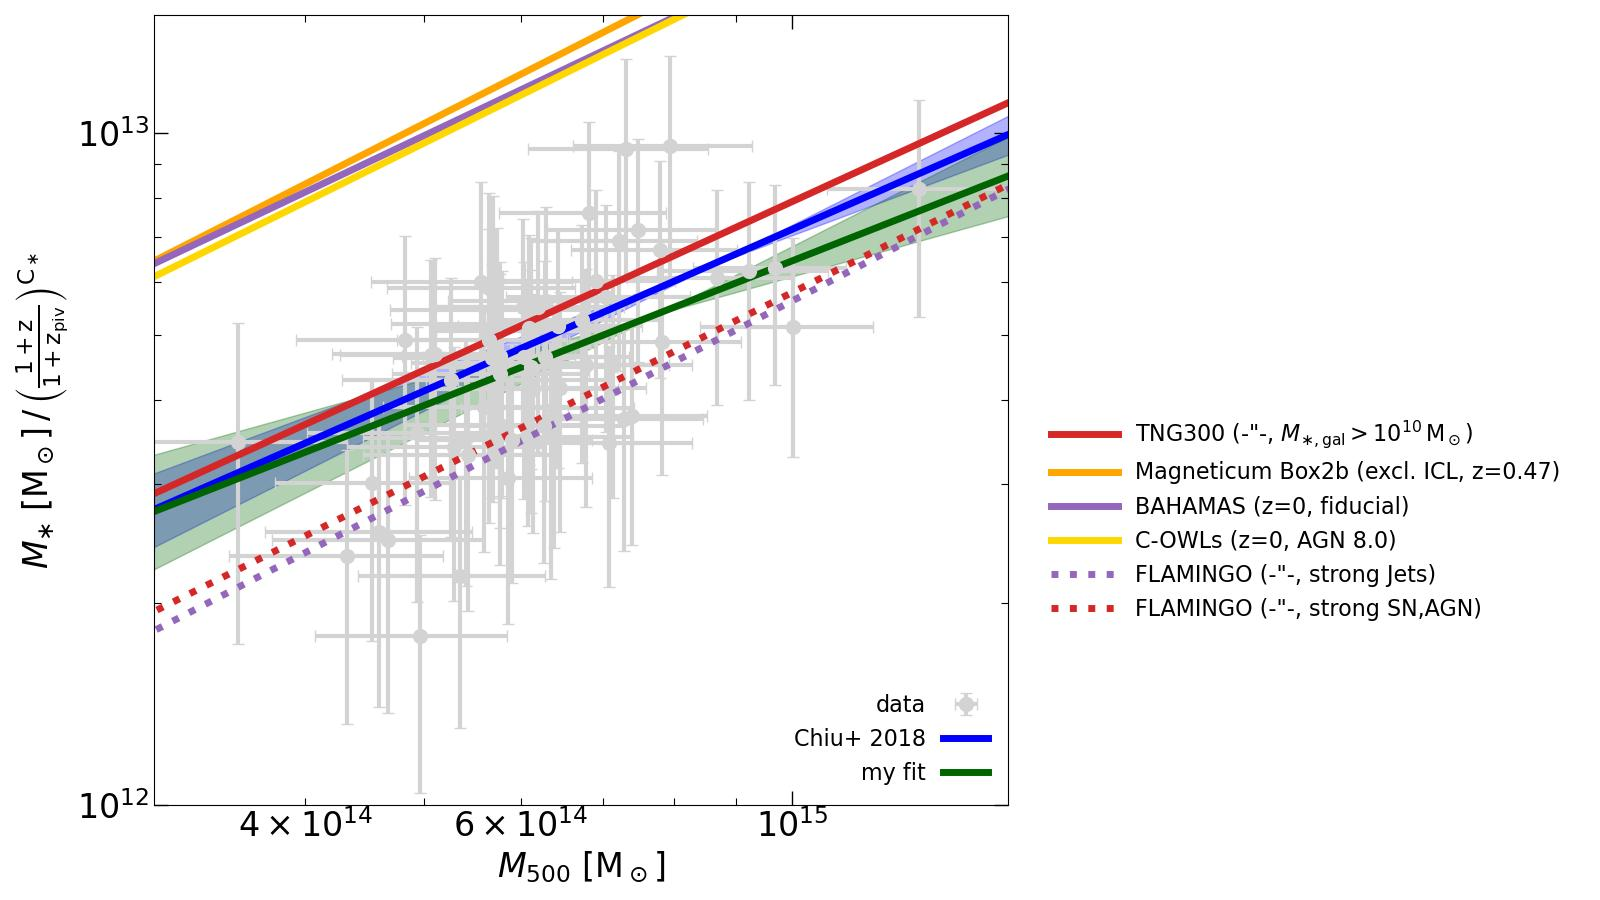
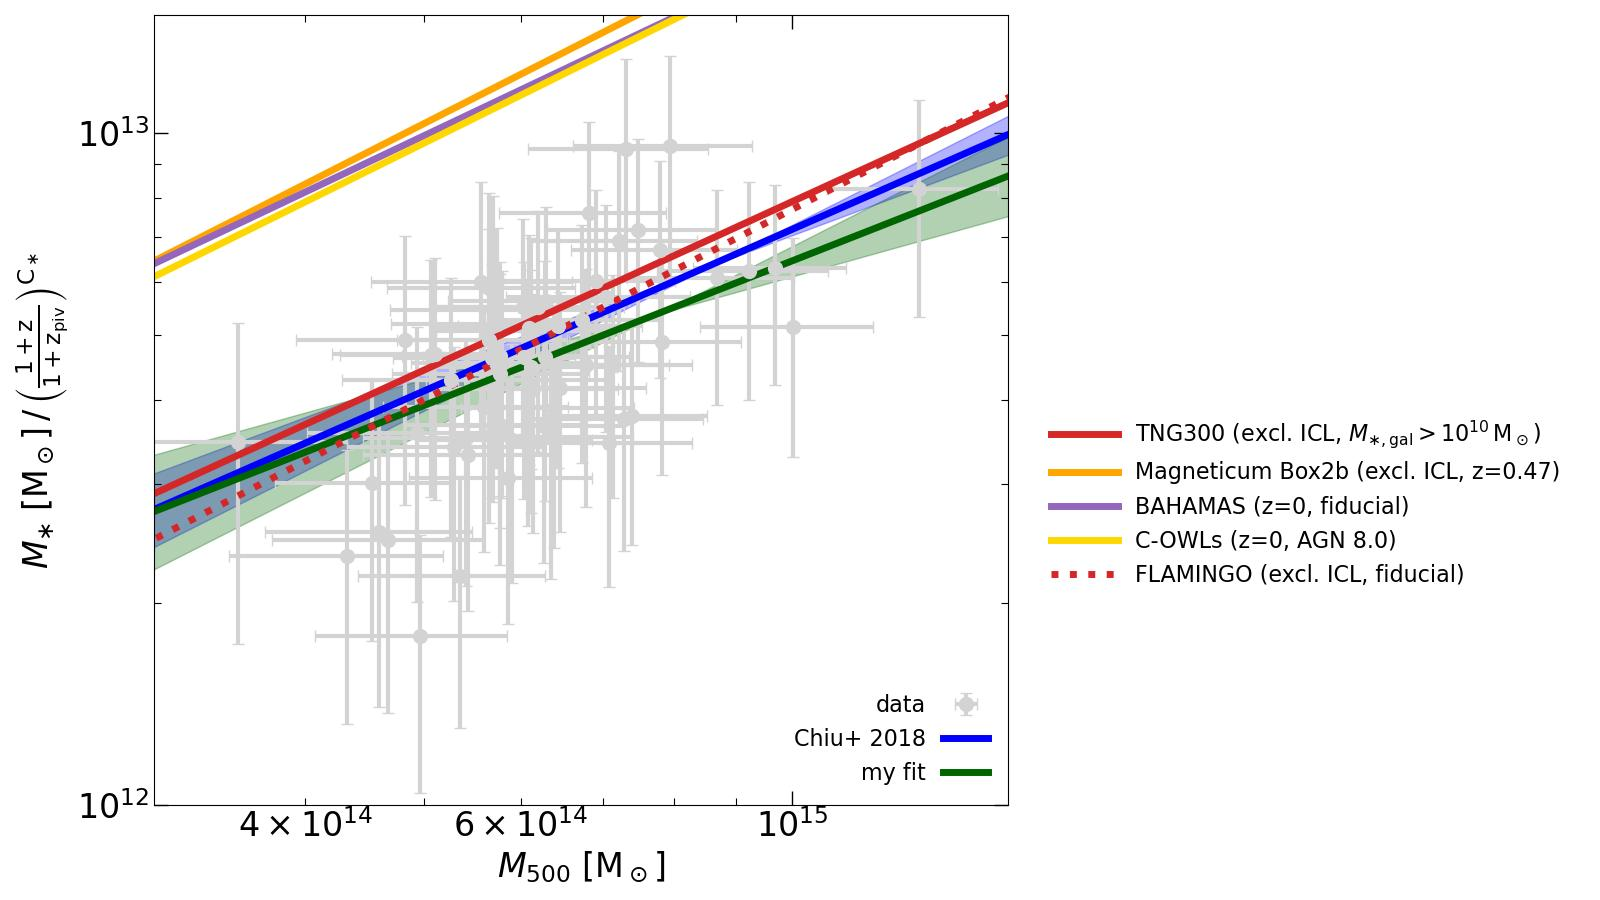
text updated and labels fixed

diff --git a/README.md b/README.md
@@ -52,16 +52,16 @@ $$ P(x|\mu,\sigma) = \cfrac{1}{x\sigma \sqrt{2\pi}}\exp\left(\cfrac{(\ln{x} - \m
 
 We need a lognormal distribution here because M<sub>* </sub> is normally distributed. However, since we're working with log(M<sub>* </sub>), this quantity is lognormally distributed. We can now compute the value of the lognormal distribution for every data point and add them up. The result is the Log-Likelihood for this set of parameters. The goal is to maximize this quantity by varying the parameters within the range in a smart way (so it does not take too long). The results from my fit to the new stellar masses can be found (not yet) [here](./files/chain_no_measurement_error_1/_1_stats.dat). The second block of values gives the results of the best fit for the parameters in order and the standard deviation. The latter is computed by evaluating different sets of parameters that have similar Log-Likelihoods. The results are:
 
-+ normalization: A<sub>* </sub> = (4.48 +- 0.24) * 10^12 M<sub>sun</sub>
-+ halo mass trend: B<sub>* </sub> = 0.716 +- 0.207
-+ redshift trend: C<sub>* </sub> = 0.184 +- 0.499
-+ scatter: D<sub>* </sub> = 0.055 +- 0.042
++ normalization: A<sub>* </sub> = $(4.48 \pm 0.24) \cdot 10^{12} \rm M_{\odot}$
++ halo mass trend: B<sub>* </sub> = 0.716 $\pm$ 0.207
++ redshift trend: C<sub>* </sub> = 0.184 $\pm$ 0.499
++ scatter: D<sub>* </sub> = 0.055 $\pm$ 0.042
 
 The next task is now to show the trend with halo mass and redshift separately. To exclude one or the other from the data, one simply divides by the respective term from the scaling relation with the best fit parameter:
 
 $$ \left(\cfrac{M_{500}}{M_{\rm piv}}\right)^{B_\ast} \hspace{0.5cm}\text{or}\hspace{0.5cm}\left(\cfrac{1+z}{1+z_{\rm piv}}\right)^{C_\ast} $$
 
-The fits are then altered by using $M_{\rm piv}=6\cdot 10^{14}\, \rm M_{\odot}$ and $z_{\rm piv}=0.6$ for M<sub>500</sub> and z, respectively. This procedure yields the following plots.
+The fits are then altered by using $M_{\rm piv}=6\cdot 10^{14} \rm M_{\odot}$ and $z_{\rm piv}=0.6$ for M<sub>500</sub> and z, respectively. This procedure yields the following plots.
 
 ![mass trend](./plots/stellar_vs_halo_mass_wo_z.jpg)
 ![redshift trend](./plots/stellar_vs_halo_mass_wo_m500.jpg)
@@ -76,19 +76,19 @@ Since the total amount of matter in the universe impacts the amount of stellar m
 
 $$f_{\rm corr} = \frac{f_{\rm bar}^{\rm data}}{f_{\rm bar}^{\rm sim}} \hspace{0.5cm}\text{where}\hspace{0.5cm} f_{\rm bar} = \frac{\Omega_{\rm bar}}{\Omega_{\rm m}}$$
 
-Additionally, we subtract the ICL masses in the simulations (if provided) to receive a more accurate picture of the simulated stellar masses. In TNG300 and FLAMINGO, we choose an aperture of 50 pkpc, centered on the galactic center, to define the BCG. Every star particle outside of this region bound to the central subhalo is considered as ICL and treated accordingly. For Magneticum, the aperture is $2\, R_{0.5,\,\ast}$.
+Additionally, we subtract the ICL masses in the simulations (if provided) to receive a more accurate picture of the simulated stellar masses. In TNG300 and FLAMINGO, we choose an aperture of 50 pkpc, centered on the galactic center, to define the BCG. Every star particle outside of this region bound to the central subhalo is considered as ICL and treated accordingly. For Magneticum, the aperture is $2 R_{0.5,\ast}$.
 
 Thereby, we receive the following results for the best simulation variation runs.
 
 ![best_sims](./plots/stellar_vs_halo_mass_wo_z_best_sims.jpg)
 
-One can still see significant deviations for BAHAMAS, C-OWLs and Magneticum. The former two are special because they still include the ICL, thus yielding higher stellar masses. The significant deviation for MAagneticum can be explained with the huge BCG masses ($\sim 10^{13}\,\rm M_{\odot}$) found. Altough they capture stars within twice the stellar halfmass radius, this is still an order of magnitude too large compared to observations and other simulations.
+One can still see significant deviations for BAHAMAS, C-OWLs and Magneticum. The former two are special because they still include the ICL, thus yielding higher stellar masses. The significant deviation for Magneticum can be explained with the huge BCG masses ($\sim 10^{13}\rm M_{\odot}$) found. Altough they capture stars within twice the stellar halfmass radius, this is still an order of magnitude too large compared to observations and other simulations.
 
 TNG300 and the fiducial FLAMINGO model perform best with only tiny deviations to the fits of the SPT clusters.
 
 Another correction one can do is to subtract the simulated BCG stellar masses from the total stellar masses of the clusters. This step is necessary as e.g. in TNG, the BCG stellar masses are too high when compared to observations. For this reason, we fit the scaling relation to the reduced stellar masses and add the scaling relation fit of the observed BCG masses on top of it. We use the BCG masses summarized by [Stott et al. (2010)](https://iopscience.iop.org/article/10.1088/0004-637X/718/1/23#fnref-apj340771r41). Their halo masses are given within R<sub>200</sub>, so they are converted to M<sub>500</sub> using the abovementioned methods. One obtains e.g. the dotted line in the TNG plot. The MCMC fitting routine yields the following for the normalization and power law index.
 
-$$ M_{\rm norm} = (1.20\pm 0.33)\times 10^{12}\, \rm M_\odot \hspace{0.5cm}\text{and}\hspace{0.5cm} B_\ast = 0.44\pm 0.01 $$
+$$ M_{\rm norm} = (1.20\pm 0.33)\times 10^{12} \rm M_\odot \hspace{0.5cm}\text{and}\hspace{0.5cm} B_\ast = 0.44\pm 0.01 $$
 
 However, for TNG this does not improve the fit anymore. One has to be careful with the apertures used for the BCG defiiton here and in [Stott et al. (2010)](https://iopscience.iop.org/article/10.1088/0004-637X/718/1/23#fnref-apj340771r41).
 
@@ -98,7 +98,7 @@ In the following, we will discuss the performance of each of the simulations ind
 
 ![tng_data_comparison](./plots/stellar_vs_halo_mass_wo_z_tng.jpg)
 
-We can see in the mass trend plot that there is a deviation between all TNG300 lines. They were computed as the fit of the scaling relation to the set of individual halo data points. However, especially for larger halo masses (essentially above $\sim4\cdot 10^{14}\,\rm M_{\odot}$) this fit might not be accurate since there are no clusters that massive in TNG300. The dashed line captures all stellar mass in satellites (within R<sub>500</sub>) as well as an aperture of 50 pkpc centered on the BCG to exclude the extended ICL. This improves the fit significantly in comparison to the fit including all stellar matter within R<sub>500</sub> (solid line), yet there still is a deviation to our data points. The next correction is to only add the stellar masses of galaxies above a certain threshold. I chose $10^{10}\,\rm M_{\odot}$ in stellar mass, as this is comparable to what [Chiu et al. (2018)](https://academic.oup.com/mnras/article/478/3/3072/4996803?login=false) did in their study. They integrated their stellar mass function with this value as the lower limit. This brings the line only marginally closer to our data points (dotted line). For comparison, we also show as the dashdotted line the entire BCG being removed and replaced by a mean BCG mass from an observational sample ([Stott et al. (2010)](https://iopscience.iop.org/article/10.1088/0004-637X/718/1/23#fnref-apj340771r41)). As one can see, this doe not really improve the fit, rather the mass slope increases. Nevertheless, by executing the abovementioned corrections, the TNG300 performance can be improved significantly.
+We can see in the mass trend plot that there is a deviation between all TNG300 lines. They were computed as the fit of the scaling relation to the set of individual halo data points. However, especially for larger halo masses (essentially above $\sim4\cdot 10^{14}\rm M_{\odot}$) this fit might not be accurate since there are no clusters that massive in TNG300. The dashed line captures all stellar mass in satellites (within R<sub>500</sub>) as well as an aperture of 50 pkpc centered on the BCG to exclude the extended ICL. This improves the fit significantly in comparison to the fit including all stellar matter within R<sub>500</sub> (solid line), yet there still is a deviation to our data points. The next correction is to only add the stellar masses of galaxies above a certain threshold. I chose $10^{10}\rm M_{\odot}$ in stellar mass, as this is comparable to what [Chiu et al. (2018)](https://academic.oup.com/mnras/article/478/3/3072/4996803?login=false) did in their study. They integrated their stellar mass function with this value as the lower limit. This brings the line only marginally closer to our data points (dotted line). For comparison, we also show as the dashdotted line the entire BCG being removed and replaced by a mean BCG mass from an observational sample ([Stott et al. (2010)](https://iopscience.iop.org/article/10.1088/0004-637X/718/1/23#fnref-apj340771r41)). As one can see, this doe not really improve the fit, rather the mass slope increases. Nevertheless, by executing the abovementioned corrections, the TNG300 performance can be improved significantly.
 
 IllustrisTNG is also based upon the Planck 2016 cosmological parameters: 
 
@@ -160,6 +160,11 @@ Just as Magneticum, C-OWLs is based upon the WMAP7 cosmological parameters (see 
 
 ![redshift_trend_flamingo_tng](./plots/stellar_vs_halo_mass_wo_m500_flamingo_tng.jpg)
 
+While the mass trends of the simulations match the one of the SPT clusters quite well already, this is not the case for the redshift trends. In the plot above you can see our fit (green) and the [Chiu et al. (2018)](https://academic.oup.com/mnras/article/478/3/3072/4996803?login=false) one (blue) as weel as all of the FLAMINGO runs and the TNG line (brown). Similar groupings occur for FLAMINGO as for the mass trend plot. Additionall, the strong jets variation still amtches our data the best. We can see strong differences in the slope between the SPT clusters (no trend), TNG ($C_{\ast}\sim 0.5$), and FLAMINGO ($C_{\ast}\sim 1.2$). This is partially linked to the removal of the ICL which strongly evolves with time. The reason for this is the ongoing stripping of stars from infalling satellites in massive clusters.
+
+However, the origin of the deviation between simulations and observations remains elusive.
+
+In this figure, BAHAMAS, C-OWLs and Magneticum are not included as we had no access to data from multiple redshifts.
 
 ## Discussion
 
@@ -171,6 +176,8 @@ Now that we have seen the final (as of right now) [plot](https://github.com/witt
 
 3. Excluding low-mass satellites from the total stellar mass does not seem to have a big impact in TNG, thus it is probably also not too major for the other sims.
 
+
+All the fitting parameters for the simulations can be found [here](https://docs.google.com/spreadsheets/d/1v85ZMcudOyRqzyrIkTzvVpi2CMC0-3bXFLOcqST5l5Y/edit?usp=sharing).
 
 
 [^1]: Note: From here on, instead of using the abovementioned procedure to compute R<sub>200</sub>, we directly take the M<sub>200</sub> measurements and compute R<sub>200</sub> directly from this. By doing so, we avoid numerical inaccuracies that could arise as M<sub>500</sub> itself was not measured but calculated from the M<sub>200</sub> measurements.
